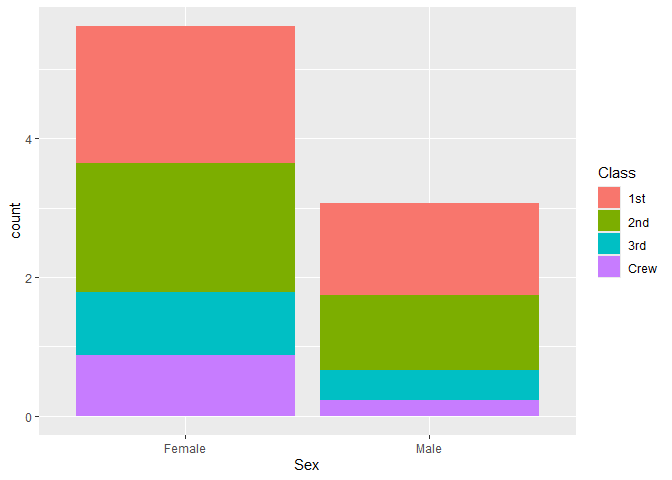
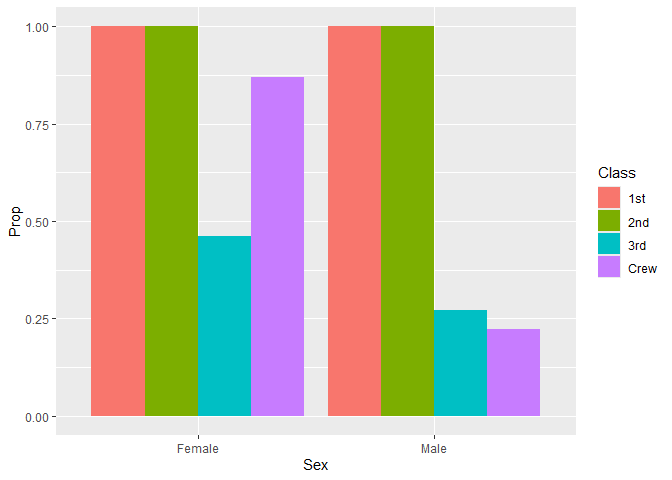
waugh

diff --git a/data-science-curriculum-build/challenges/c01-titanic-assignment.md b/data-science-curriculum-build/challenges/c01-titanic-assignment.md
@@ -152,6 +152,12 @@ df_titanic %>% summarize(total = sum(n))
     British Board of Trade so it’s possible discrepancies within record
     keeping over the years have introduced conflicting accounts for how
     many people were aboard the ship.
+  - One potential cause for the discrepancy is differences in the way
+    records were analyzed. It is possible that over time, new records
+    could be found because there could be people missing potentially in
+    third class since it was mainly immigrants that might have had
+    differences in documentation than the others so they could have gone
+    uncounted for for a while despite being on the ship.
 
 ### **q3** Create a plot showing the count of persons who *did* survive, along with aesthetics for `Class` and `Sex`. Document your observations below.
 
@@ -159,30 +165,53 @@ df_titanic %>% summarize(total = sum(n))
 
 ``` r
 # summary(df_titanic)
-# df_titanic %>%
-#   select(n, everything())
+df_titanic %>%
+  select(n, everything())
+```
+
+    ## # A tibble: 32 × 5
+    ##        n Class Sex    Age   Survived
+    ##    <dbl> <chr> <chr>  <chr> <chr>   
+    ##  1     0 1st   Male   Child No      
+    ##  2     0 2nd   Male   Child No      
+    ##  3    35 3rd   Male   Child No      
+    ##  4     0 Crew  Male   Child No      
+    ##  5     0 1st   Female Child No      
+    ##  6     0 2nd   Female Child No      
+    ##  7    17 3rd   Female Child No      
+    ##  8     0 Crew  Female Child No      
+    ##  9   118 1st   Male   Adult No      
+    ## 10   154 2nd   Male   Adult No      
+    ## # ℹ 22 more rows
+
+``` r
 # test <- 
 #   df_titanic %>%
 #     filter(Survived == "Yes")
-# 
-# sex_vector = c(test %>% 
-#     filter(Sex == "Female") %>%
-#       select(n), 
-#     test %>% 
-#     filter(Sex == "Male") %>%
-#       select(n))
 
 ## TASK: Visualize counts against `Class` and `Sex`
-ggplot(
-  data=df_titanic %>%
-    filter(Survived == "Yes")
-) +
-  geom_bar(
+# ggplot(
+#   data=df_titanic %>%
+#     filter(Survived == "Yes")
+# ) +
+#   geom_col(
+#     mapping = aes(
+#       x = Sex, # Sex,
+#       fill = Class, # Class,
+#       # weight = n
+#     )
+#   )
+# 
+df_titanic %>%
+  filter(Survived == "Yes") %>%
+  ggplot(
     mapping = aes(
       x = Sex, # Sex,
+      y = n,
       fill = Class, # Class,
-      weight = n
-    )
+    )) +
+  geom_col(
+    position = "dodge"
   )
 ```
 
@@ -251,18 +280,45 @@ df_prop
 ### **q4** Replicate your visual from q3, but display `Prop` in place of `n`. Document your observations, and note any new/different observations you make in comparison with q3. Is there anything *fishy* in your plot?
 
 ``` r
-ggplot(
-  data=df_prop %>%
-    filter(Survived == "Yes")
-) +
-  geom_bar(
+# ggplot(
+#   data=df_prop %>%
+#     filter(Survived == "Yes")
+# ) +
+#   geom_bar(
+#     mapping = aes(
+#       x = Sex, # Sex,
+#       fill = Class, # Class,
+#       weight = Prop
+#     )
+#   )
+# 
+# df_prop %>%
+#   ggplot(
+#       filter(Survived == "Yes"),
+#       mapping = aes(
+#         x = Sex, # Sex,
+#         fill = Class, # Class,
+#         weight = Prop
+#       )
+# ) +
+#   geom_bar()
+
+df_prop %>%
+  filter(Survived == "Yes") %>%
+  ggplot(
     mapping = aes(
       x = Sex, # Sex,
+      y = Prop,
       fill = Class, # Class,
-      weight = Prop
     )
+  ) +
+  geom_col(
+    position = "dodge"
   )
 ```
+
+    ## Warning: Removed 2 rows containing missing values or values outside the scale range
+    ## (`geom_col()`).
 
 ![](c01-titanic-assignment_files/figure-gfm/q4-task-1.png)<!-- -->
 
@@ -273,15 +329,10 @@ ggplot(
   fewer survivors and the crew having the least survivors.
 - The male crew had the least survivors overall.
 - Is there anything *fishy* going on in your plot?
-  - In the code for calculating the proportions, we group the data by
-    Class, Sex, and Age, but then proceed to do nothing with Age besides
-    add it to the data, which causes a weird change to the proportions
-    that is not accounted for in the graph. The graph only plots Class
-    and Sex and nowhere does it mention Age despite it being factored
-    into the grouping.
-  - The count for male crew survivors is so much lower compared to the
-    raw counts because there are no children in the crew so no extra
-    individuals are being added to the proportion.
+  - I think it’s a bit odd that the male and female proportions for
+    survivors are the same. We know that more women survived and more
+    men died so why do the 1st and 2nd class women and men have the same
+    proportion?
 
 ### **q5** Create a plot showing the group-proportion of occupants who *did* survive, along with aesthetics for `Class`, `Sex`, *and* `Age`. Document your observations below.
 
@@ -289,19 +340,35 @@ ggplot(
 additional variables!
 
 ``` r
-ggplot(
-  data=df_prop %>%
-    filter(Survived == "Yes")
-) +
-  geom_bar(
+# ggplot(
+#   data=df_prop %>%
+#     filter(Survived == "Yes")
+# ) +
+#   geom_bar(
+#     mapping = aes(
+#       x = Sex, # Sex,
+#       fill = Class, # Class,
+#       weight = Prop
+#     )
+#   ) +
+#     facet_grid(rows = vars(Age))
+
+df_prop %>%
+  filter(Survived == "Yes") %>%
+  ggplot(
     mapping = aes(
       x = Sex, # Sex,
-      fill = Class, # Class,
-      weight = Prop
-    )
-  ) +
+      y = Prop,
+      fill = Class # Class,
+    )) + 
+    geom_col(
+      position = "dodge"
+    ) +
     facet_grid(rows = vars(Age))
 ```
+
+    ## Warning: Removed 2 rows containing missing values or values outside the scale range
+    ## (`geom_col()`).
 
 ![](c01-titanic-assignment_files/figure-gfm/q5-task-1.png)<!-- -->
 
@@ -323,15 +390,14 @@ ggplot(
   probably because there were fewer female crew members to begin with.
 - If you saw something *fishy* in q4 above, use your new plot to explain
   the fishy-ness.
-  - q4’s graph had strange counts due to Age being factored in but not
-    being graphed.
+  - q4’s graph had strange proportions due to Age being factored in but
+    not being graphed.
   - This new plot separates the survivors based on age which allows for
     a much clear visual and understanding about what the proportions
     actually mean.
   - The difference in female and male survivor proportions was not
     accurately being presented because the male children survivors were
-    being included so it skewed the proportions and made it seem like
-    the difference in male and female survivors was less than actuality.
+    being included so it skewed the proportions.
 
 # Notes
 
